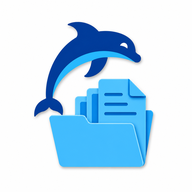
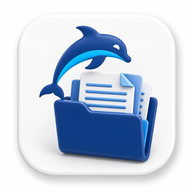
.

diff --git a/src/routes/portal.documentos.tsx b/src/routes/portal.documentos.tsx
@@ -1,6 +1,6 @@
 import { createFileRoute, Link, redirect } from "@tanstack/react-router";
 import { useEffect, useRef, useState } from "react";
-import { supabase } from "@/lib/supabase";
+import { supabaseAluno } from "@/lib/supabase";
 import { getSessaoAluno, type SessaoAluno } from "@/lib/auth-aluno";
 import { statusValidade } from "@/lib/validade";
 import { Card, CardContent, CardDescription, CardHeader, CardTitle } from "@/components/ui/card";
@@ -116,7 +116,7 @@ function PortalDocumentos() {
 
   async function carregarDocumentos() {
     setCarregando(true);
-    const { data, error } = await supabase.rpc("portal_documentos_aluno", {
+    const { data, error } = await supabaseAluno.rpc("portal_documentos_aluno", {
       p_aluno_id: session!.id,
     });
 
@@ -129,7 +129,7 @@ function PortalDocumentos() {
   }
 
   async function carregarValidade() {
-    const { data, error } = await supabase.rpc("portal_dados_inicio", {
+    const { data, error } = await supabaseAluno.rpc("portal_dados_inicio", {
       p_aluno_id: session!.id,
     });
 
@@ -165,7 +165,7 @@ function PortalDocumentos() {
         const ext = arquivo.name.split(".").pop();
         const caminho = `${session.id}/${tipo}-${Date.now()}-${Math.random().toString(36).slice(2, 7)}.${ext}`;
 
-        const { error: uploadError } = await supabase.storage
+        const { error: uploadError } = await supabaseAluno.storage
           .from("documentos-aluno")
           .upload(caminho, arquivo, { upsert: false });
 
@@ -177,7 +177,7 @@ function PortalDocumentos() {
 
       const forcar = tipo === "atestado" ? forcarAtestado : forcarParq;
 
-      const { error: insertError } = await supabase.rpc("portal_enviar_documento", {
+      const { error: insertError } = await supabaseAluno.rpc("portal_enviar_documento", {
         p_aluno_id: session.id,
         p_tipo: tipo,
         p_nomes_arquivo: nomes,
@@ -216,7 +216,7 @@ function PortalDocumentos() {
     setCancelando(doc.id);
 
     try {
-      const { data, error } = await supabase.rpc("portal_cancelar_documento", {
+      const { data, error } = await supabaseAluno.rpc("portal_cancelar_documento", {
         p_aluno_id: session.id,
         p_documento_id: doc.id,
       });
@@ -225,7 +225,7 @@ function PortalDocumentos() {
 
       const urlsArquivos = data?.[0]?.url;
       if (urlsArquivos?.length) {
-        await supabase.storage.from("documentos-aluno").remove(urlsArquivos);
+        await supabaseAluno.storage.from("documentos-aluno").remove(urlsArquivos);
       }
 
       toast.success("Envio cancelado.");

diff --git a/src/lib/auth-aluno.ts b/src/lib/auth-aluno.ts
@@ -1,4 +1,4 @@
-import { supabase } from "@/lib/supabase";
+import { supabaseAluno } from "@/lib/supabase";
 
 export type SessaoAluno = {
   id: string;
@@ -27,7 +27,7 @@ export type ResultadoVerificar =
 const ERRO_GENERICO = "Não foi possível verificar seus dados agora. Tente novamente.";
 
 export async function getSessaoAluno(): Promise<SessaoAluno | null> {
-  const { data } = await supabase.auth.getSession();
+  const { data } = await supabaseAluno.auth.getSession();
   const session = data.session;
   if (!session) return null;
 
@@ -46,7 +46,7 @@ export async function identificarAluno(
   nomeCompleto: string,
   nascimento: string,
 ): Promise<ResultadoIdentificar> {
-  const { data, error } = await supabase.functions.invoke<RespostaFuncao>(
+  const { data, error } = await supabaseAluno.functions.invoke<RespostaFuncao>(
     "garantir-usuario-aluno",
     { body: { acao: "identificar", nome_completo: nomeCompleto, nascimento } },
   );
@@ -83,7 +83,7 @@ export async function verificarAluno(
   nascimento: string,
   valorTerceiroFator: string,
 ): Promise<ResultadoVerificar> {
-  const { data, error } = await supabase.functions.invoke<RespostaFuncao>(
+  const { data, error } = await supabaseAluno.functions.invoke<RespostaFuncao>(
     "garantir-usuario-aluno",
     {
       body: {
@@ -119,7 +119,7 @@ export async function verificarAluno(
 
   // O servidor já conferiu nome+nascimento+3º fator e devolveu um token de
   // uso único — o navegador nunca calcula nem envia nenhuma senha.
-  const { data: sessionData, error: erroOtp } = await supabase.auth.verifyOtp({
+  const { data: sessionData, error: erroOtp } = await supabaseAluno.auth.verifyOtp({
     token_hash: data.token_hash,
     type: "email",
   });
@@ -133,7 +133,7 @@ export async function verificarAluno(
 }
 
 export async function sairAluno(): Promise<void> {
-  await supabase.auth.signOut();
+  await supabaseAluno.auth.signOut();
 }
 
 export async function temSessaoAluno(): Promise<boolean> {

diff --git a/src/routes/portal.inicio.tsx b/src/routes/portal.inicio.tsx
@@ -1,6 +1,6 @@
 import { createFileRoute, Link, redirect, useNavigate } from "@tanstack/react-router";
 import { useEffect, useState } from "react";
-import { supabase } from "@/lib/supabase";
+import { supabaseAluno } from "@/lib/supabase";
 import { getSessaoAluno, sairAluno, type SessaoAluno } from "@/lib/auth-aluno";
 import { Card, CardContent, CardDescription, CardHeader, CardTitle } from "@/components/ui/card";
 import { Badge } from "@/components/ui/badge";
@@ -83,7 +83,7 @@ function PortalInicio() {
     if (!sessao) return;
     setCarregando(true);
 
-    const { data, error } = await supabase.rpc("portal_dados_inicio", {
+    const { data, error } = await supabaseAluno.rpc("portal_dados_inicio", {
       p_aluno_id: sessao.id,
     });
     const alunoData = data?.[0];
@@ -106,14 +106,14 @@ function PortalInicio() {
     setAluno(alunoData as DadosAluno);
 
     const { inicio, fim } = mesAtual();
-    const { data: dp } = await supabase.rpc("portal_presencas_mes", {
+    const { data: dp } = await supabaseAluno.rpc("portal_presencas_mes", {
       p_aluno_id: sessao.id,
       p_inicio: inicio,
       p_fim: fim,
     });
     setPresencas((dp ?? []) as Presenca[]);
 
-    const { data: dt } = await supabase.rpc("portal_turma_atual", {
+    const { data: dt } = await supabaseAluno.rpc("portal_turma_atual", {
       p_aluno_id: sessao.id,
     });
     setTurmaInfo((dt?.[0] ?? null) as TurmaInfo | null);

diff --git a/src/routes/acesso.tsx b/src/routes/acesso.tsx
@@ -18,7 +18,7 @@ function Acesso() {
       >
         <div
           aria-hidden
-          className="pointer-events-none absolute -top-20 left-1/2 h-[400px] w-[400px] -translate-x-1/2 rounded-full opacity-50"
+          className="pointer-events-none absolute -top-20 left-1/2 h-100 w-100 -translate-x-1/2 rounded-full opacity-50"
           style={{ background: "radial-gradient(closest-side, #DBEAFE, transparent)" }}
         />
 
@@ -48,7 +48,7 @@ function Acesso() {
                 </h2>
                 <p className="mt-2 flex-1 text-sm leading-relaxed text-muted-foreground">
                   Veja suas presenças, faltas, turma, documentos e avisos da secretaria. Acesse com
-                  CPF, data de nascimento e telefone cadastrados.
+                  nome completo e data de nascimento.
                 </p>
                 <span className="mt-6 inline-flex items-center text-sm font-semibold text-[#1D4ED8]">
                   Acessar minha conta

diff --git a/src/routes/portal.presencas.tsx b/src/routes/portal.presencas.tsx
@@ -1,6 +1,6 @@
 import { createFileRoute, redirect } from "@tanstack/react-router";
 import { useEffect, useState } from "react";
-import { supabase } from "@/lib/supabase";
+import { supabaseAluno } from "@/lib/supabase";
 import { getSessaoAluno, type SessaoAluno } from "@/lib/auth-aluno";
 import { Card, CardContent, CardDescription, CardHeader, CardTitle } from "@/components/ui/card";
 import { CalendarDays, CheckCircle2, XCircle, ChevronLeft, ChevronRight } from "lucide-react";
@@ -54,7 +54,7 @@ function PortalPresencas() {
     if (!sessao) return;
     setCarregando(true);
     const mesStr = String(mes).padStart(2, "0");
-    const { data, error } = await supabase.rpc("portal_presencas_mes", {
+    const { data, error } = await supabaseAluno.rpc("portal_presencas_mes", {
       p_aluno_id: sessao.id,
       p_inicio: `${ano}-${mesStr}-01`,
       p_fim: `${ano}-${mesStr}-31`,

diff --git a/src/components/pwa-install-banner.tsx b/src/components/pwa-install-banner.tsx
@@ -2,7 +2,8 @@ import { Download, Share, SquarePlus, X } from "lucide-react";
 import { Button } from "@/components/ui/button";
 import { Card } from "@/components/ui/card";
 import { useInstallPrompt } from "@/hooks/use-install-prompt";
-import logo from "@/assets/logo-simbolo.png";
+import logoPortal from "@/assets/icone-portal-app.png";
+import logoAdmin from "@/assets/icone-admin-app.png";
 
 interface PwaInstallBannerProps {
   /** Qual dos dois apps instaláveis este banner representa. */
@@ -25,6 +26,8 @@ export function PwaInstallBanner({
   const { plataforma, podeMostrar, instalar, dispensar } = useInstallPrompt(app);
 
   if (!podeMostrar || !plataforma) return null;
+
+  const logo = app === "admin" ? logoAdmin : logoPortal;
 
   return (
     <Card className="mx-4 mt-4 flex flex-col gap-3 border-primary/20 bg-primary/5 p-4 sm:mx-6 sm:flex-row sm:items-center sm:gap-4">

diff --git a/src/routes/portal.dados.tsx b/src/routes/portal.dados.tsx
@@ -1,6 +1,6 @@
 import { createFileRoute, Link, redirect, useNavigate } from "@tanstack/react-router";
 import { useEffect, useState } from "react";
-import { supabase } from "@/lib/supabase";
+import { supabaseAluno } from "@/lib/supabase";
 import { getSessaoAluno, sairAluno, type SessaoAluno } from "@/lib/auth-aluno";
 import { Card, CardContent, CardHeader, CardTitle } from "@/components/ui/card";
 import { Button } from "@/components/ui/button";
@@ -93,7 +93,7 @@ function PortalDados() {
   async function carregarDados() {
     if (!sessao) return;
     setCarregando(true);
-    const { data, error } = await supabase.rpc("portal_meus_dados", {
+    const { data, error } = await supabaseAluno.rpc("portal_meus_dados", {
       p_aluno_id: sessao.id,
     });
     const alunoData = data?.[0];

diff --git a/src/routes/portal.avisos.tsx b/src/routes/portal.avisos.tsx
@@ -1,6 +1,6 @@
 import { createFileRoute, redirect } from "@tanstack/react-router";
 import { useEffect, useState } from "react";
-import { supabase } from "@/lib/supabase";
+import { supabaseAluno } from "@/lib/supabase";
 import { getSessaoAluno } from "@/lib/auth-aluno";
 import { AvisoMensagemHtml } from "@/lib/sanitizar-aviso";
 import { Card, CardContent, CardDescription, CardHeader, CardTitle } from "@/components/ui/card";
@@ -50,7 +50,7 @@ function PortalAvisos() {
 
   async function carregarAvisos() {
     setCarregando(true);
-    const { data, error } = await supabase
+    const { data, error } = await supabaseAluno
       .from("avisos")
       .select("*")
       .eq("ativo", true)

diff --git a/src/routes/portal.tsx b/src/routes/portal.tsx
@@ -7,7 +7,7 @@ import {
   useRouterState,
 } from "@tanstack/react-router";
 import { useEffect, useState } from "react";
-import { supabase } from "@/lib/supabase";
+import { supabaseAluno } from "@/lib/supabase";
 import {
   getSessaoAluno,
   identificarAluno,
@@ -85,7 +85,7 @@ function PortalLayout() {
 
   async function carregarPendenciaDocumentos() {
     if (!sessao) return;
-    const { data } = await supabase.rpc("portal_dados_inicio", {
+    const { data } = await supabaseAluno.rpc("portal_dados_inicio", {
       p_aluno_id: sessao.id,
     });
     const alunoData = data?.[0];

diff --git a/src/lib/supabase.ts b/src/lib/supabase.ts
@@ -4,6 +4,11 @@ const supabaseUrl = import.meta.env.VITE_SUPABASE_URL;
 const supabaseAnonKey = import.meta.env.VITE_SUPABASE_ANON_KEY;
 
 export const supabase = createClient(supabaseUrl, supabaseAnonKey);
+export const supabaseAluno = createClient(supabaseUrl, supabaseAnonKey, {
+  auth: {
+    storageKey: "sb-aluno-auth-token",
+  },
+});
 export async function buscarTodasLinhas<T = unknown>(
   tabela: string,
   colunas: string,
